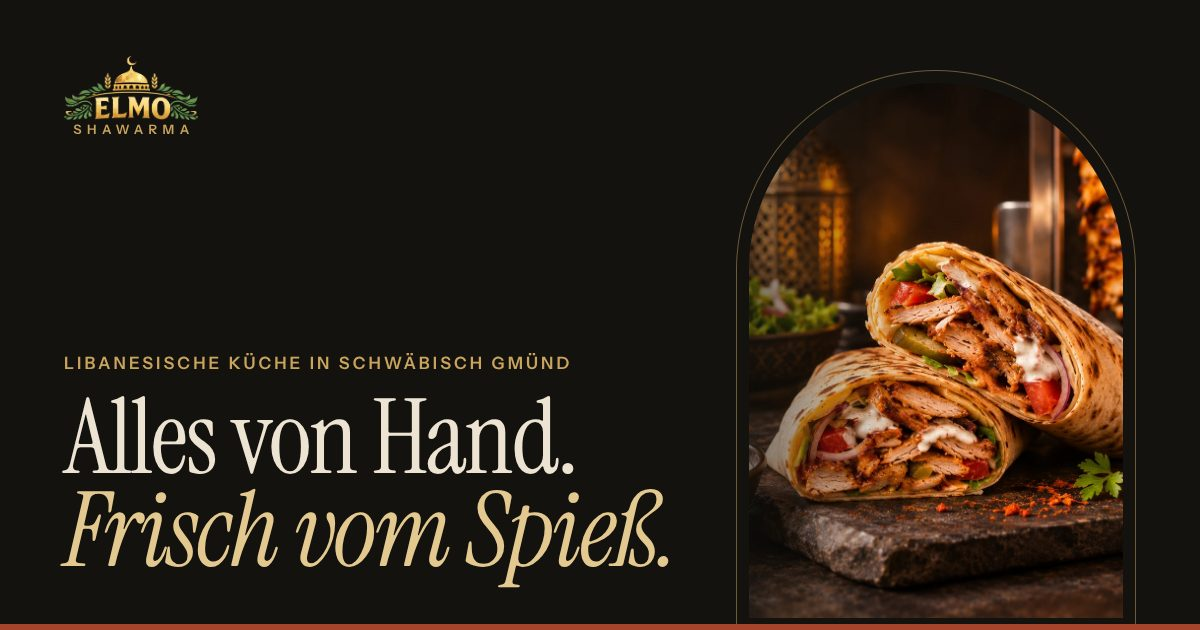
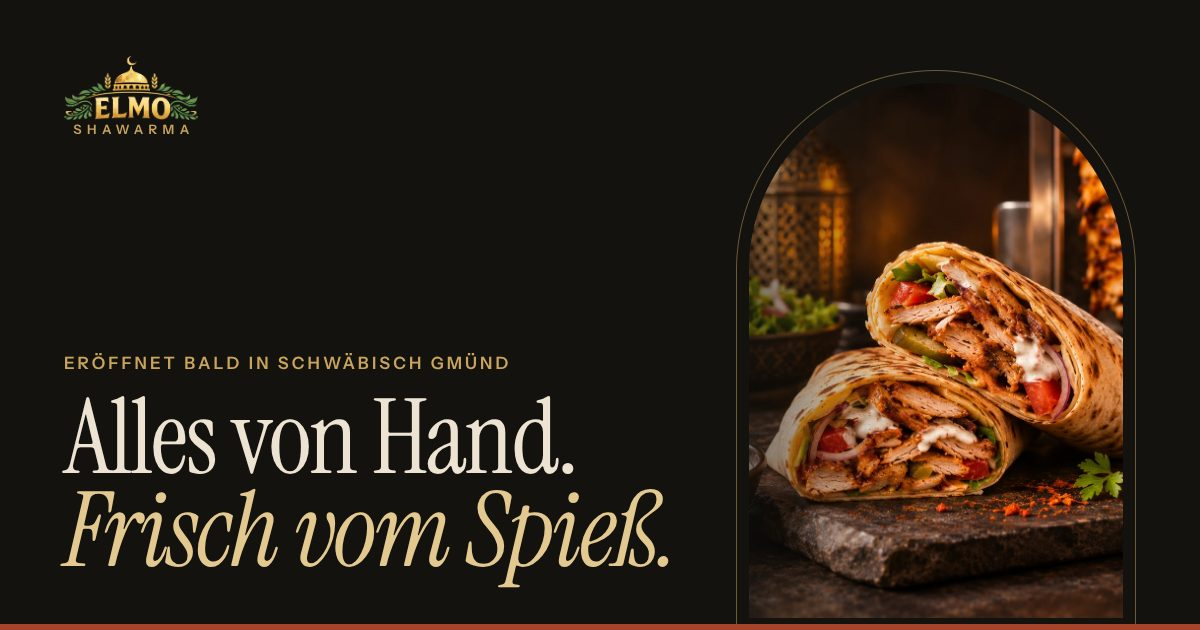
Website: deutlich „Bald geöffnet“, solange das Restaurant noch nicht eröffnet hat
- Schalter OPENING_SOON in src/config.ts (am Eröffnungstag auf false)
- Hinweisleiste in Terrakotta ganz oben auf jeder Seite: „Bald geöffnet.
  Elmo Shawarma eröffnet in Kürze in der Kapuzinergasse 6“
- „Eröffnet bald“ statt „Heute ab … geöffnet“, „Öffnungszeiten ab Eröffnung“
  auf Startseite, Kontakt und in der Fußzeile
- keine Öffnungszeiten im JSON-LD; Über uns: „Wir eröffnen bald.“;
  Vorschaubild der Startseite „Eröffnet bald in Schwäbisch Gmünd“

Claude-Session: https://claude.ai/code/session_01VAGB57ddfDkchJabw8sDsp

Changed region(s): [[0.0617, 0.5429, 0.4625, 0.6032]]

diff --git a/src/data/restaurant.ts b/src/data/restaurant.ts
@@ -2,6 +2,7 @@
  * Stammdaten des Restaurants: eine Quelle für Kopfzeile, Fußzeile, Kontakt,
  * Öffnungsstatus und JSON-LD. Nur echte Angaben; Fehlendes als `null`.
  */
+import { OPENING_SOON } from '../config.ts';
 
 export const restaurant = {
   name: 'Elmo Shawarma',
@@ -64,11 +65,16 @@ export function restaurantJsonLd(siteUrl: string) {
       addressLocality: restaurant.city,
       addressCountry: 'DE',
     },
-    openingHoursSpecification: openingHours.map((slot) => ({
-      '@type': 'OpeningHoursSpecification',
-      dayOfWeek: slot.days.map((d) => SCHEMA_DAYS[d]),
-      opens: slot.opens,
-      closes: slot.closes === '24:00' ? '23:59' : slot.closes,
-    })),
+    // vor der Eröffnung keine Zeiten, damit Google den Laden nicht als geöffnet zeigt
+    ...(OPENING_SOON
+      ? {}
+      : {
+          openingHoursSpecification: openingHours.map((slot) => ({
+            '@type': 'OpeningHoursSpecification',
+            dayOfWeek: slot.days.map((d) => SCHEMA_DAYS[d]),
+            opens: slot.opens,
+            closes: slot.closes === '24:00' ? '23:59' : slot.closes,
+          })),
+        }),
   };
 }

diff --git a/src/config.ts b/src/config.ts
@@ -40,3 +40,11 @@ export const SITE_NAME = 'Elmo Shawarma';
 export const MUSEUM_NAME = 'Elmo Museum';
 export const RESTAURANT = 'Elmo Shawarma';
 export const CITY = 'Schwäbisch Gmünd';
+
+/**
+ * Das Restaurant hat noch nicht eröffnet: Hinweisleiste „Bald geöffnet“ auf jeder
+ * Seite, „Eröffnet bald“ statt Live-Status, „Öffnungszeiten ab Eröffnung“ und keine
+ * Öffnungszeiten im JSON-LD für Google. Auf `false` setzen, sobald das Restaurant
+ * geöffnet hat; dann zeigt die Seite wieder den Live-Status und die Zeiten.
+ */
+export const OPENING_SOON = true;
